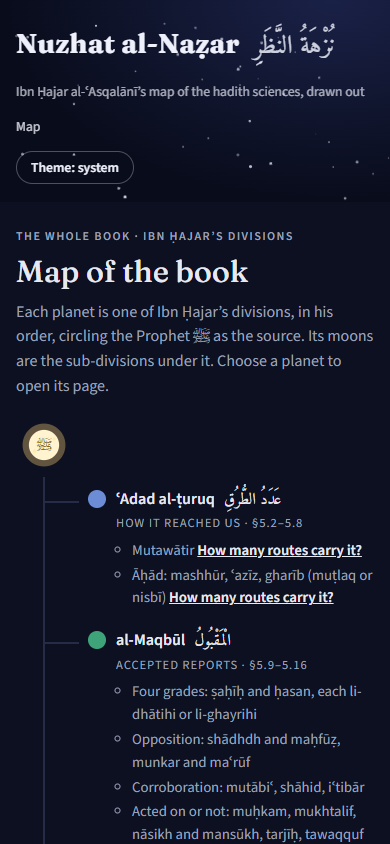
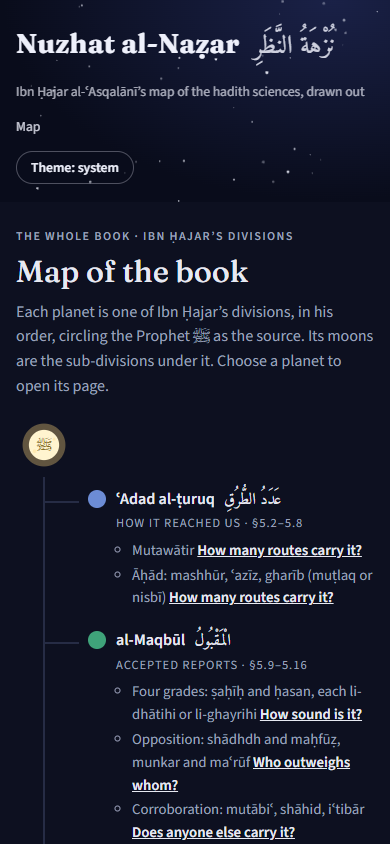
docs: add al-maqbul screenshots

Changed region(s): [[0.3385, 0.8934, 0.9538, 1.0], [0.6462, 0.8318, 0.9231, 0.8626], [0.2769, 0.955, 0.3077, 0.9858]]

diff --git a/tests/screenshots/readme.spec.ts b/tests/screenshots/readme.spec.ts
@@ -9,6 +9,10 @@ const shots: { name: string; path: string; full: boolean; diagram?: boolean }[] 
   { name: "narrators", path: "/narrators/", full: true },
   { name: "terms", path: "/terms/", full: false },
   { name: "routes", path: "/adad-al-turuq/routes/", full: true, diagram: true },
+  { name: "grades", path: "/al-maqbul/grades/", full: true, diagram: true },
+  { name: "opposition", path: "/al-maqbul/opposition/", full: true, diagram: true },
+  { name: "support", path: "/al-maqbul/support/", full: true, diagram: true },
+  { name: "acted-on", path: "/al-maqbul/acted-on/", full: true, diagram: true },
   { name: "breaks", path: "/al-mardud/breaks/", full: true, diagram: true },
   { name: "unknown", path: "/al-mardud/unknown/", full: true, diagram: true },
   { name: "delivery", path: "/siyagh-al-ada/delivery/", full: true, diagram: true },

diff --git a/README.md b/README.md
@@ -20,7 +20,7 @@ Live site: <https://adehad.github.io/hadith-science/>
 - Light and dark themes, and full support for reduced motion.
 - Installable as an app, and readable offline after the first visit.
 
-- **Five scenes** (below), each one diagram whose terms open a popover and have their own share link.
+- **Nine scenes** (below), each one diagram whose terms open a popover and have their own share link.
 
 Terms without a scene yet are marked "scene coming soon" in the glossary. Later phases draw the rest, one division at a time.
 
@@ -34,6 +34,11 @@ Terms without a scene yet are marked "scene coming soon" in the glossary. Later 
 | Scene | Page | Terms |
 |---|---|---|
 | How many routes carry it? | `/adad-al-turuq/routes/` | mutawātir, mashhūr, ʿazīz, gharīb |
+| **al-Maqbūl** (accepted reports) | | |
+| How sound is it? | `/al-maqbul/grades/` | ṣaḥīḥ and ḥasan, in themselves and by others; ʿadl, ḍabṭ and ittiṣāl; the soundest chains; ḥasan ṣaḥīḥ |
+| Who outweighs whom? | `/al-maqbul/opposition/` | ziyādat al-thiqa, shādhdh and maḥfūẓ, munkar and maʿrūf |
+| Does anyone else carry it? | `/al-maqbul/support/` | iʿtibār, mutābaʿa (full and partial), mutābiʿ, shāhid |
+| Can both be acted on? | `/al-maqbul/acted-on/` | muḥkam, mukhtalif al-ḥadīth, naskh, nāsikh and mansūkh, tarjīḥ, tawaqquf |
 | Where does the chain break? | `/al-mardud/breaks/` | mursal, muʿallaq, muʿḍal, munqaṭiʿ |
 | Who is this narrator? | `/al-mardud/unknown/` | mubham, majhūl, majhūl al-ʿayn, mastūr |
 | How was it received? | `/siyagh-al-ada/delivery/` | the eight ranks of delivery words, and the weaker ways below them |
@@ -49,6 +54,7 @@ Figure scenes can show a key under the diagram (**Key**) or write each narrator'
 
 | | Light | Dark |
 |---|---|---|
+| Can both be acted on? | ![Can both be acted on? A decision path of five questions, each answer dropping to an outcome card, light](docs/screenshots/acted-on-desktop-light.png) | ![Can both be acted on? A decision path of five questions, each answer dropping to an outcome card, dark](docs/screenshots/acted-on-desktop-dark.png) |
 | How was it received? | ![The delivery staircase, light](docs/screenshots/delivery-desktop-light.png) | ![The delivery staircase, dark](docs/screenshots/delivery-desktop-dark.png) |
 | Phone | ![How many routes carry it? on a phone, first carousel panel, light](docs/screenshots/routes-mobile-light.png) | ![Who is who? on a phone, the cells in one column, dark](docs/screenshots/names-mobile-dark.png) |
 
